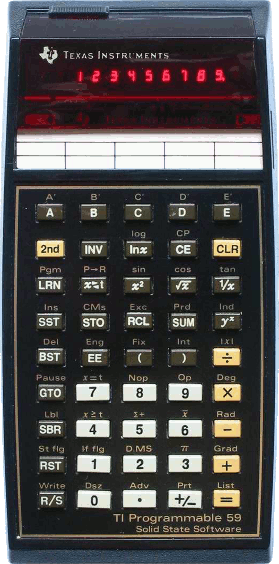
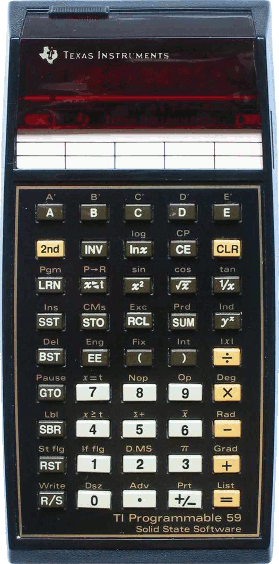
update

Changed region(s): [[0.4588, 0.1206, 0.8315, 0.1507], [0.2581, 0.1206, 0.4301, 0.1507]]

diff --git a/src/machine/ti/ti59.cpp b/src/machine/ti/ti59.cpp
@@ -64,7 +64,7 @@ Cti59::Cti59(CPObject *parent,Models mod):CpcXXXX(parent)
 
     pTIMER		= new Ctimer(this);
     pLCDC		= new Clcdc_ti59(this,
-                                 QRect(30,43,220,40),
+                                 QRect(40,70,210,35),
                                  QRect(),
                                  P_RES(":/ti59/ti59lcd.png"));
     pCPU		= new Ctmc0501(this,currentModel);    ti59cpu = (Ctmc0501*)pCPU;
@@ -96,33 +96,16 @@ bool Cti59::run() {
 
     TMC0501regs * _regs = ti59cpu->r;
 
-    displayString = Display();
-    if (ti59cpu->r->flags & FLG_DISP)
-        pLCDC->updated = true;
+
+//    if (ti59cpu->r->flags & FLG_DISP)
+//        pLCDC->updated = true;
 
     getKey();
 
-
-//    if (
-//            !_regs->Power &&
-//         (_regs->KEYR !=0 )) {
-//        _regs->COND = 1;
-//        _regs->R5 = _regs->KEYR;
-//        _regs->Timer=0;
-//        _regs->Power = true;
-//        ti59cpu->halt = false;
-//        qWarning()<<"Wakeup";
-
-//    }
-
-
-//    if (ti59cpu->r->KEYR != 0) {
-//        qWarning() << "KEY:"<<ti59cpu->r->KEYR;
-//    }
-
     CpcXXXX::run();
 
-    pTIMER->state++;
+    Display();
+
     return true;
 }
 
@@ -222,7 +205,7 @@ QString Cti59::Display() {
   if (!ti59cpu->r->digit) {
       static char disp_filter = 0;
       if (ti59cpu->r->flags & FLG_IDLE) {
-          qWarning()<<"ok";
+//          qWarning()<<"ok";
           // display enabled
           static unsigned char dA[16], dB[16];
           int i;
@@ -240,6 +223,7 @@ QString Cti59::Display() {
           if (!(ti59cpu->r->flags & FLG_DISP)) {
               int zero = 1;
               ti59cpu->r->flags |= FLG_DISP;
+              pLCDC->updated = true;
               //        putchar ('\r');
               if (ti59cpu->r->fA & 0x4000) {
                   //          putchar ('C');
@@ -289,6 +273,8 @@ QString Cti59::Display() {
 #endif
               putchar ('|'); putchar (' ');
                 qWarning()<<"DISPLAY:"<<s;
+               displayString = s;
+               pLCDC->updated = true;
           }
           disp_filter = 0;
       } else
@@ -313,67 +299,71 @@ QString Cti59::Display() {
 }
 
 #define KEY(c)	( pKEYB->keyPressedList.contains(TOUPPER(c)) || pKEYB->keyPressedList.contains(c) || pKEYB->keyPressedList.contains(TOLOWER(c)))
-#define KPORT(CODE)    ti59cpu->r->key[(CODE) & 0x0F] |= 1 << (((CODE) >> 4) & 0x07)
+#define KPORT(COND,CODE)    if(COND) \
+                                ti59cpu->r->key[(CODE) & 0x0F] |= 1 << (((CODE) >> 4) & 0x07); \
+                            else \
+                                ti59cpu->r->key[(CODE) & 0x0F] &= ~(1 << (((CODE) >> 4) & 0x07));
 
 UINT8 Cti59::getKey()
 {
     UINT8 code = 0;
-    if (pKEYB->LastKey)
+//    memset(ti59cpu->r->key,0,sizeof(ti59cpu->r->key));
+//    if (pKEYB->LastKey)
     {
 
-        if (KEY(K_RS))			KPORT(0x19);
-        if (KEY('0'))			KPORT(0x29);
-        if (KEY('.'))			KPORT(0x39);
-        if (KEY(K_SIGN))		KPORT(0x59);
-        if (KEY('='))			KPORT(0x69);
+        KPORT(KEY(K_RS),0x19);
+        KPORT(KEY('0'),0x29);
+        KPORT(KEY('.'),0x39);
+        KPORT(KEY(K_SIGN),0x59);
+        KPORT(KEY('='),0x69);
 
-        if (KEY(K_RST))			KPORT(0x18);
-        if (KEY('1'))			KPORT(0x28);
-        if (KEY('2'))			KPORT(0x38);
-        if (KEY('3'))			KPORT(0x58);
-        if (KEY('+'))			KPORT(0x68);
+        KPORT(KEY(K_RST),0x18);
+        KPORT(KEY('1'),0x28);
+        KPORT(KEY('2'),0x38);
+        KPORT(KEY('3'),0x58);
+        KPORT(KEY('+'),0x68);
 
-        if (KEY(K_SBR))			KPORT(0x17);
-        if (KEY('4'))			KPORT(0x27);
-        if (KEY('5'))			KPORT(0x37);
-        if (KEY('6'))			KPORT(0x57);
-        if (KEY('-'))			KPORT(0x67);
+        KPORT(KEY(K_SBR),0x17);
+        KPORT(KEY('4'),0x27);
+        KPORT(KEY('5'),0x37);
+        KPORT(KEY('6'),0x57);
+        KPORT(KEY('-'),0x67);
 
-        if (KEY(K_GTO))			KPORT(0x16);
-        if (KEY('7'))			KPORT(0x26);
-        if (KEY('8'))			KPORT(0x36);
-        if (KEY('9'))			KPORT(0x56);
-        if (KEY('*'))			KPORT(0x66);
+        KPORT(KEY(K_GTO),0x16);
+        KPORT(KEY('7'),0x26);
+        KPORT(KEY('8'),0x36);
+        KPORT(KEY('9'),0x56);
+        KPORT(KEY('*'),0x66);
 
-        if (KEY(K_BST))			KPORT(0x15);
-        if (KEY(K_EE))			KPORT(0x25);
-        if (KEY('('))			KPORT(0x35);
-        if (KEY(')'))			KPORT(0x55);
-        if (KEY('/'))			KPORT(0x65);
+        KPORT(KEY(K_BST),0x15);
+        KPORT(KEY(K_EE),0x25);
+        KPORT(KEY('('),0x35);
+        KPORT(KEY(')'),0x55);
+        KPORT(KEY('/'),0x65);
 
-        if (KEY(K_SST))			KPORT(0x14);
-        if (KEY(K_STO))			KPORT(0x24);
-        if (KEY(K_RCL))			KPORT(0x34);
-        if (KEY(K_SUM))			KPORT(0x54);
-        if (KEY(K_POT))			KPORT(0x64);  // X^Y
+        KPORT(KEY(K_SST),0x14);
+        KPORT(KEY(K_STO),0x24);
+        KPORT(KEY(K_RCL),0x34);
+        KPORT(KEY(K_SUM),0x54);
+        KPORT(KEY(K_POT),0x64);  // X^Y
 
-        if (KEY(K_LRN))			KPORT(0x13);
-        if (KEY(K_XT))			KPORT(0x23);
-        if (KEY(K_SQR))			KPORT(0x33);
-        if (KEY(K_ROOT))		KPORT(0x53);
-        if (KEY(K_1X))			KPORT(0x63);
+        KPORT(KEY(K_LRN),0x13);
+        KPORT(KEY(K_XT),0x23);
+        KPORT(KEY(K_SQR),0x33);
+        KPORT(KEY(K_ROOT),0x53);
+        KPORT(KEY(K_1X),0x63);
 
-        if (KEY(K_SHT))			KPORT(0x12);  // 2nd
-        if (KEY(K_DEF))			KPORT(0x22);  // INV
-        if (KEY(K_LN))			KPORT(0x32);
-        if (KEY(K_CE))			KPORT(0x52);
-        if (KEY(K_CCE))			KPORT(0x62);  // CLR
+        KPORT(KEY(K_SHT),0x12);  // 2nd
+        KPORT(KEY(K_DEF),0x22);  // INV
+        KPORT(KEY(K_LN),0x32);
+        KPORT(KEY(K_CE),0x52);
+        KPORT(KEY(K_CCE),0x62);  // CLR
 
-        if (KEY('A'))			KPORT(0x11);  // 2nd
-        if (KEY('B'))			KPORT(0x21);  // INV
-        if (KEY('C'))			KPORT(0x31);
-        if (KEY('D'))			KPORT(0x51);
-        if (KEY('E'))			KPORT(0x61);  // CLR
+        KPORT(KEY('A'),0x11);  // 2nd
+        KPORT(KEY('B'),0x21);  // INV
+        KPORT(KEY('C'),0x31);
+        KPORT(KEY('D'),0x51);
+        KPORT(KEY('E'),0x61);  // CLR
 
     }
 

diff --git a/src/cpu/tmc0501.cpp b/src/cpu/tmc0501.cpp
@@ -14,6 +14,7 @@
 #include "pcxxxx.h"
 #include "Lcdc.h"
 #include "ui/cregsz80widget.h"
+#include "Inter.h"
 
 // ====================================
 // card file names
@@ -441,7 +442,7 @@ void Ctmc0501::Regs_Info(UINT8)
 
 
 void Ctmc0501::Emulate() {
-    WORD _op = pPC->Get_16(r->addr<<1);
+    WORD _op = pPC->Get_16r(r->addr<<1);
     execute (_op);
 
 }
@@ -545,10 +546,14 @@ int Ctmc0501::execute (unsigned short opcode) {
     r->digit = 15;
 
   // update instruction cycle counter
-  if (r->flags & FLG_IDLE)
+  if (r->flags & FLG_IDLE) {
     r->cycle += 4;
-  else
+    pPC->pTIMER->state+=4;
+  }
+  else {
     r->cycle++;
+    pPC->pTIMER->state++;
+  }
   // clear HOLD bit
   r->flags &= ~FLG_HOLD;
   // process PREG bit
@@ -716,47 +721,47 @@ int Ctmc0501::execute (unsigned short opcode) {
     // keyboard operations
     // ================================
     case 0x0800:
-      {
-    unsigned char mask;
-    // get pressed key(s) mask
-    mask = (((opcode & 0x07) | ((opcode >> 1) & 0x78)) ^ 0x7F) & r->key[r->digit];
-    // check if more than 1 key is pressed
-    if (mask & (mask - 1))
-      mask = 0;
-    if (!(opcode & 0x0008)) {
-      // scan all keyboard
-      // scan current row
-      if (r->key[r->digit] & mask) {
-        unsigned char bit = 0;
-//        if (log_flags & LOG_DEBUG)
-//          LOG ("(K%d=%02X)", r->digit, r->key[r->digit] & mask);
-        // get bit position
-        while (!(mask & 1)) {
-          bit++;
-          mask >>= 1;
-        }
-        // clear COND
-        r->flags &= ~FLG_COND;
-        // set result to KR
-        r->KR = /*(r->KR & ~0x07F0) |*/ (r->digit << 4) | ((bit << 8) & 0x0700);
-//        if (log_flags & LOG_SHORT)
-//          LOG ("KR=%04X COND=0", r->KR);
-      } else
-      if (r->digit) {
-        // wait for digit 0 counter - end of scan
-        r->flags |= FLG_HOLD;
-        return 11;
+  {
+      unsigned char mask;
+      // get pressed key(s) mask
+      mask = (((opcode & 0x07) | ((opcode >> 1) & 0x78)) ^ 0x7F) & r->key[r->digit];
+      // check if more than 1 key is pressed
+      if (mask & (mask - 1))
+          mask = 0;
+      if (!(opcode & 0x0008)) {
+          // scan all keyboard
+          // scan current row
+          if (r->key[r->digit] & mask) {
+              unsigned char bit = 0;
+              //        if (log_flags & LOG_DEBUG)
+              //          LOG ("(K%d=%02X)", r->digit, r->key[r->digit] & mask);
+              // get bit position
+              while (!(mask & 1)) {
+                  bit++;
+                  mask >>= 1;
+              }
+              // clear COND
+              r->flags &= ~FLG_COND;
+              // set result to KR
+              r->KR = /*(r->KR & ~0x07F0) |*/ (r->digit << 4) | ((bit << 8) & 0x0700);
+              //        if (log_flags & LOG_SHORT)
+              //          LOG ("KR=%04X COND=0", r->KR);
+          } else
+              if (r->digit) {
+                  // wait for digit 0 counter - end of scan
+                  r->flags |= FLG_HOLD;
+                  return 11;
+              }
+      } else {
+          // scan current row and update COND
+          if (r->key[r->digit] & mask)
+              r->flags &= ~FLG_COND;
+          //      if (log_flags & LOG_DEBUG)
+          //        LOG ("(K%d=%02X) ", r->digit, r->key[r->digit] & mask);
+          //      if (log_flags & LOG_SHORT)
+          //        LOG ("COND=%u", (r->flags & FLG_COND) != 0);
       }
-    } else {
-      // scan current row and update COND
-      if (r->key[r->digit] & mask)
-        r->flags &= ~FLG_COND;
-//      if (log_flags & LOG_DEBUG)
-//        LOG ("(K%d=%02X) ", r->digit, r->key[r->digit] & mask);
-//      if (log_flags & LOG_SHORT)
-//        LOG ("COND=%u", (r->flags & FLG_COND) != 0);
-    }
-      }
+  }
       break;
     // ================================
     // wait operations
@@ -850,34 +855,34 @@ int Ctmc0501::execute (unsigned short opcode) {
 //          if (log_flags & LOG_SHORT)
 //        LOG ("EXT=%04X", r->EXT);
           break;
-        case 0x0030:
+      case 0x0030:
           // WRITE
-//	      card_write (r->KR >> 4)
+          //	      card_write (r->KR >> 4)
           r->CRD_BUF[r->CRD_PTR++] = (r->KR >> 4);
           break;
-        case 0x0040:
+      case 0x0040:
           // CRDOFF
           if (r->CRD_FLAGS & CRD_WRITE) {
-        FILE *f;
-        if ((f = fopen (card_output, "r+b")) == NULL)
-          f = fopen (card_output, "wb");
-        if (f == NULL) {
-          fprintf (stderr, "Can't access file %s!\n", card_output);
-        } else {
-          fseek (f, CRD_LEN * ((r->CRD_BUF[2] & 0x0F) / 3), SEEK_SET);
-          fwrite (r->CRD_BUF, CRD_LEN, 1, f);
-          fclose (f);
-        }
+              FILE *f;
+              if ((f = fopen (card_output, "r+b")) == NULL)
+                  f = fopen (card_output, "wb");
+              if (f == NULL) {
+                  fprintf (stderr, "Can't access file %s!\n", card_output);
+              } else {
+                  fseek (f, CRD_LEN * ((r->CRD_BUF[2] & 0x0F) / 3), SEEK_SET);
+                  fwrite (r->CRD_BUF, CRD_LEN, 1, f);
+                  fclose (f);
+              }
           } else
-          if (r->CRD_FLAGS & CRD_READ) {
-        r->CRD_BUF[2] += 3;
-          }
+              if (r->CRD_FLAGS & CRD_READ) {
+                  r->CRD_BUF[2] += 3;
+              }
           r->CRD_FLAGS = 0;
           r->CRD_PTR = 0;
           // clear card switch
           if (currentModel == TI59)
-        // TI-59: D10-KR card switch normally closed
-        r->key[10] |= (1 << KR_BIT);
+              // TI-59: D10-KR card switch normally closed
+              r->key[10] |= (1 << KR_BIT);
           break;
         case 0x0050:
           // CRDREAD
@@ -986,7 +991,7 @@ int Ctmc0501::execute (unsigned short opcode) {
       r->flags |= FLG_IDLE;
 //      if (log_flags & LOG_SHORT)
 //        LOG ("IDLE=1");
-      qWarning()<<"IDLE=1";
+//      qWarning()<<"IDLE=1";
       break;
     case 0x000A:
       // CLFB

diff --git a/src/cpu/tmc0501_dasm.cpp b/src/cpu/tmc0501_dasm.cpp
@@ -242,7 +242,7 @@ UINT32 Cdebug_tmc0501::DisAsm_1(UINT32 oldpc)
 
     oldpc &= 0xffff;
     DasmAdr = oldpc;
-    WORD _op = pCPU->pPC->Get_16(DasmAdr<<1);
+    WORD _op = pCPU->pPC->Get_16r(DasmAdr<<1);
 
     Buffer[0] = '\0';
 

diff --git a/src/lcd/lcdc_ti59.cpp b/src/lcd/lcdc_ti59.cpp
@@ -65,7 +65,7 @@ void Clcdc_ti59::disp(void)
         blinkTimer->stop();
     }
 
-//    qWarning()<<"display:"<<s;
+    qWarning()<<"lcd display:"<<s;
 
 #define YOFFSET 5
 
